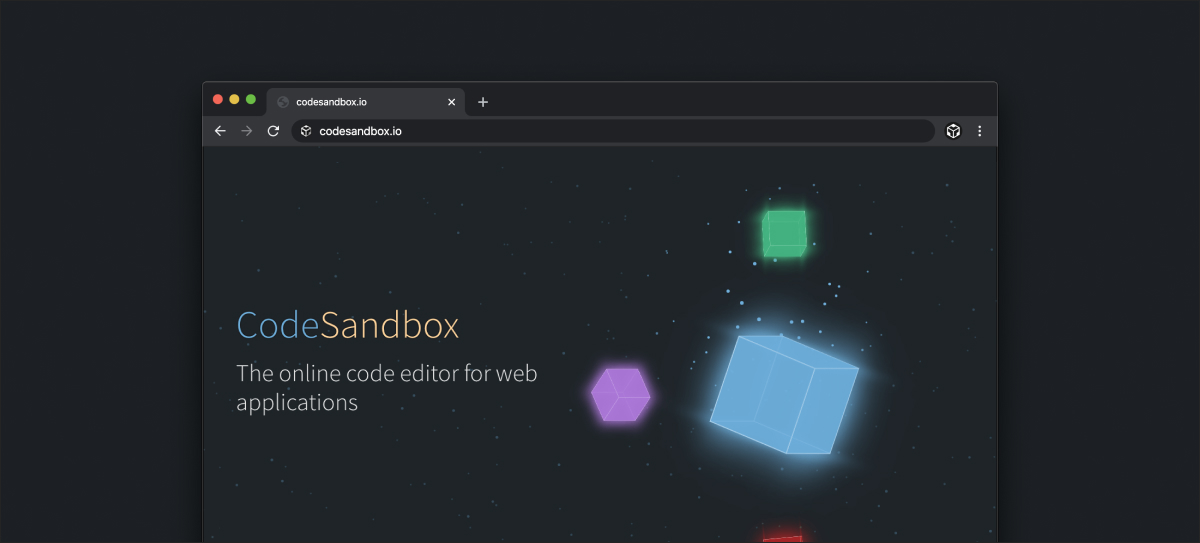
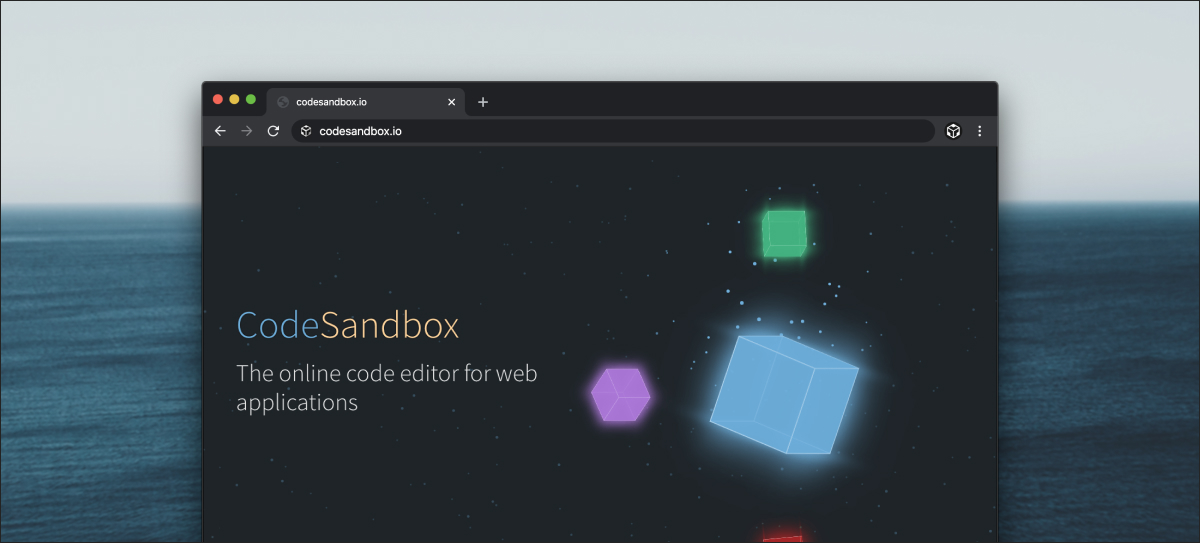
Added link ankers #v3.4.9 updated one image
/changelog#v3.4.9

diff --git a/packages/homepage/src/pages/changelog/index.js b/packages/homepage/src/pages/changelog/index.js
@@ -51,7 +51,9 @@ const Blog = ({
           <Posts key={id}>
             <Aside>
               <Postitle>
-                CodeSandbox <strong> {title} </strong>
+                <a name={title}>
+                  CodeSandbox <strong> {title} </strong>
+                </a>
               </Postitle>
               Released on {format(date, 'MMM / DD / YYYY')}
             </Aside>
